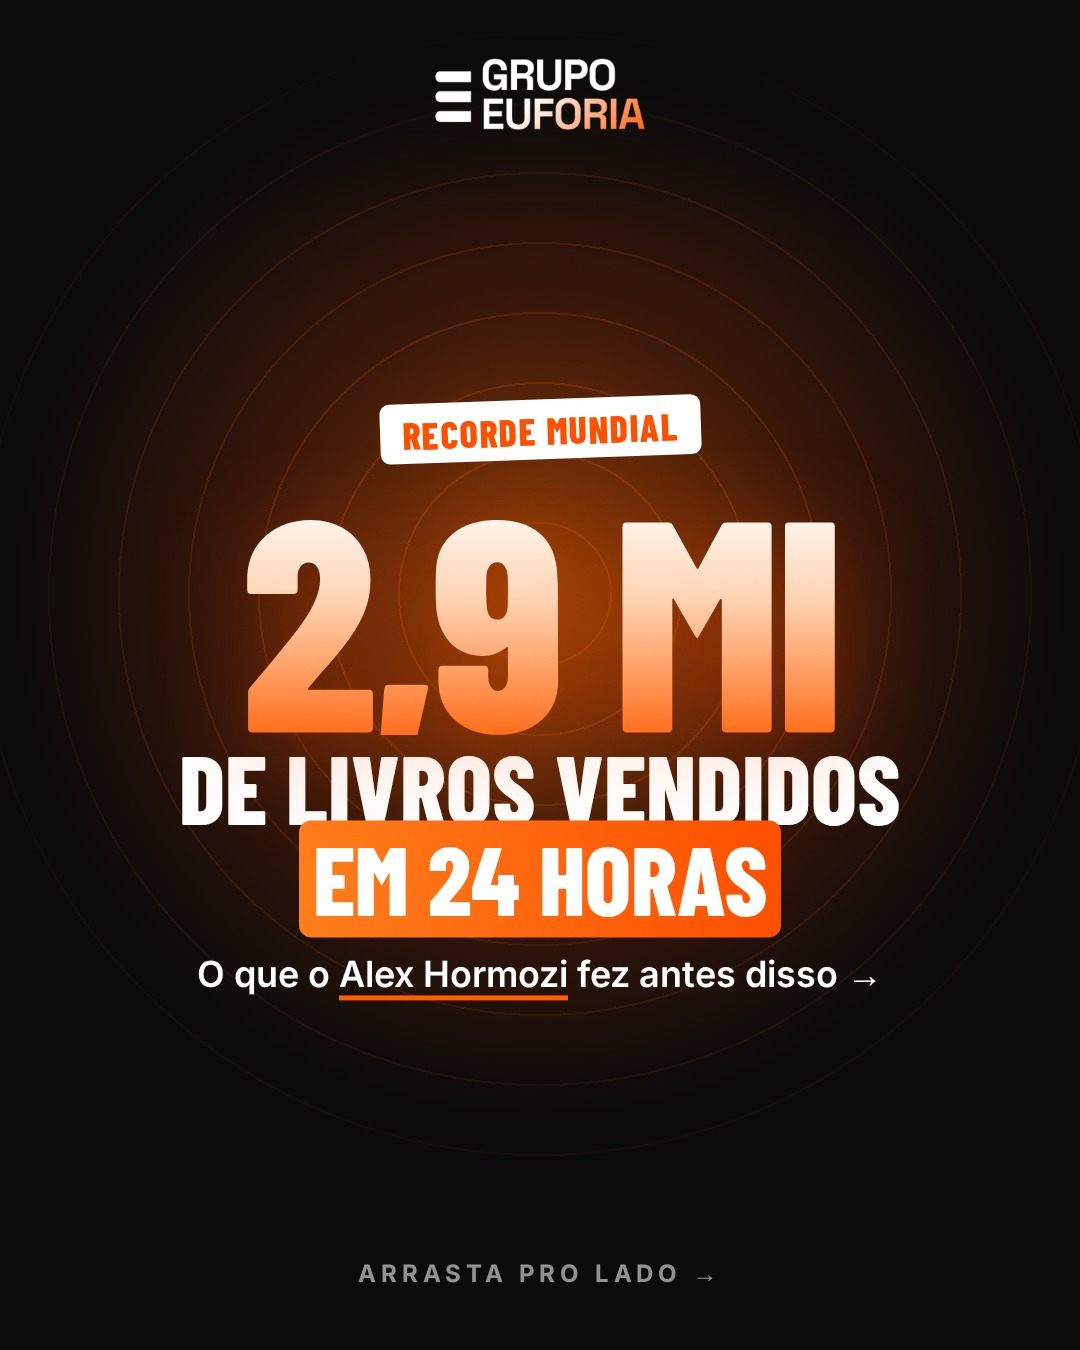
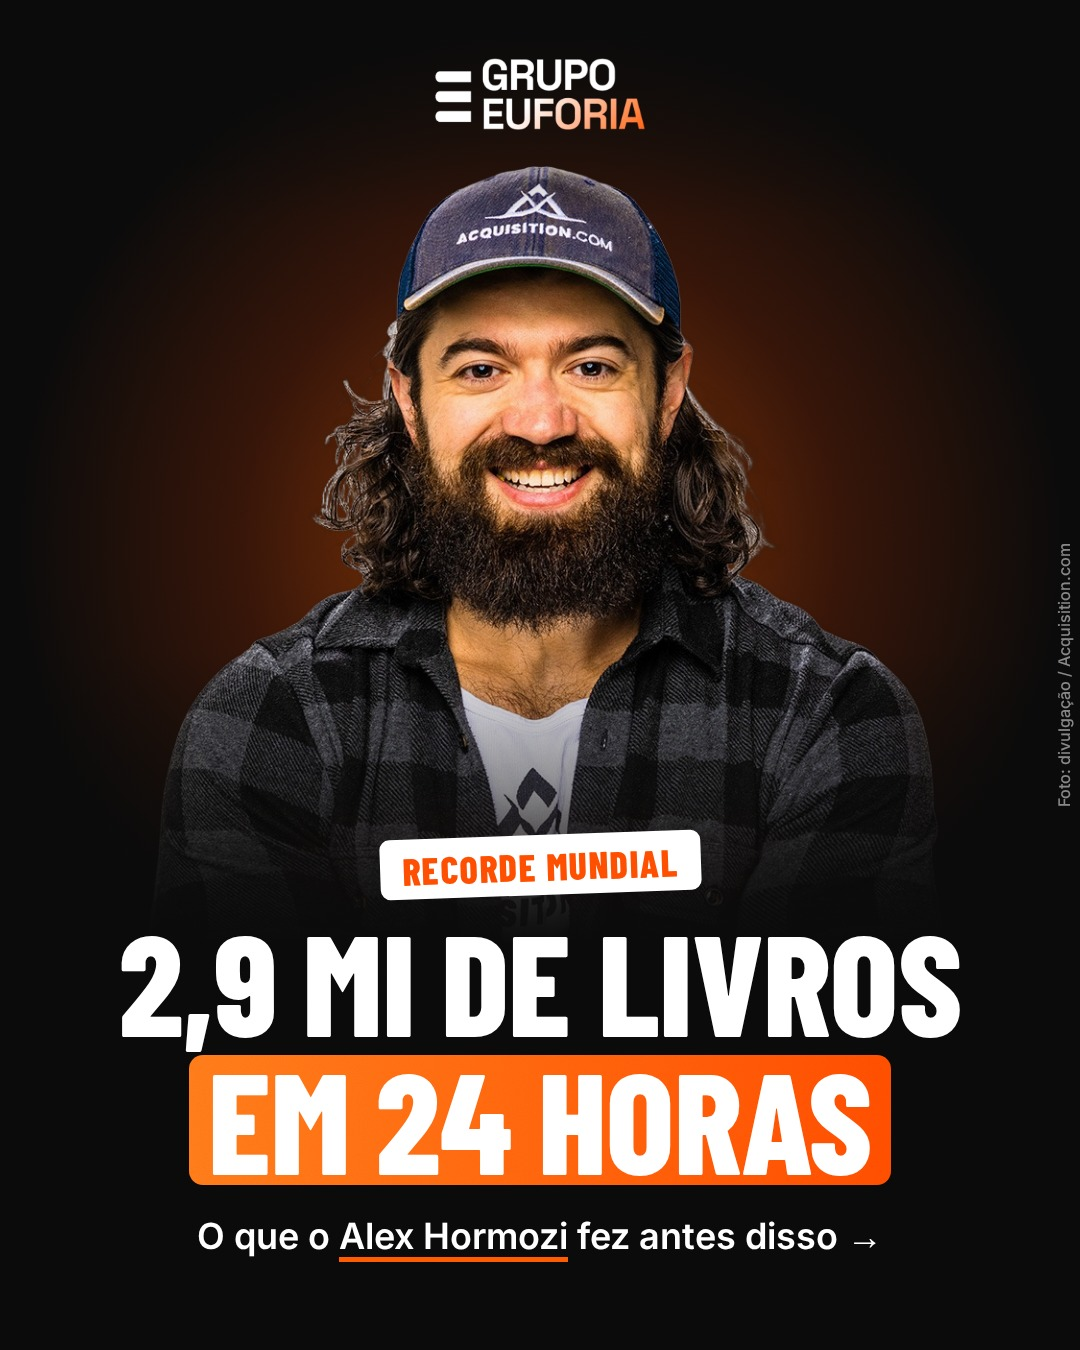
Hormozi: capa com foto de divulgação
Claude-Session: https://claude.ai/code/session_01SMS9mEhxmmQDAdG1MbqJBe

diff --git a/gerador/render2.py b/gerador/render2.py
@@ -305,7 +305,7 @@ def slide(s, i, n, cat=""):
             topo = f'<div class="fundo" style="background-image:url({img_uri(ROOT / s["fundo"])});background-position:{s.get("posicao","center")}"></div>'
             cls = "s capa comfundo"
         else:
-            topo = f'<div class="halo"></div><img class="pessoa" src="{img_uri(s["foto"])}">'
+            topo = f'<div class="halo"></div><img class="pessoa" src="{img_uri(s["foto"])}" style="{s.get("foto_estilo","")}">'
             cls = "s capa"
         tam = "menor" if s.get("titulo_menor") else ""
         return f'''<div class="{cls}">{topo}
